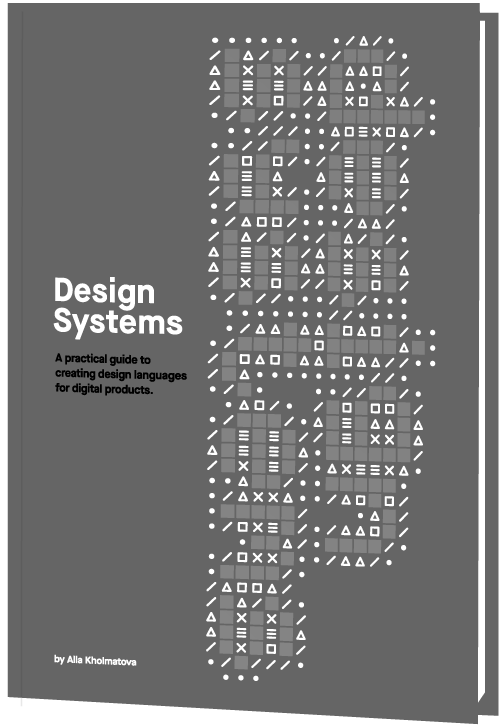
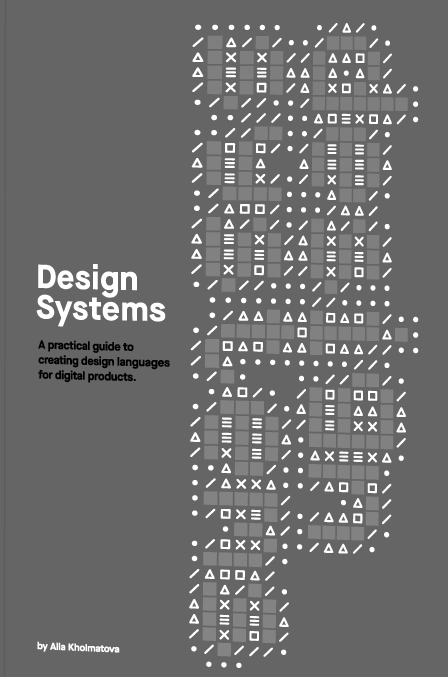
Added Design Systems Featured Smash Book Section

Changed region(s): [[0.0, 0.0, 1.0, 1.0], [0.0625, 0.3722, 0.375, 0.5894]]

diff --git a/index.html b/index.html
@@ -402,7 +402,7 @@
         >
       </section>
 
-      <section class="flex-full align-center black-text more-book">
+      <section class="more-book flex-full align-center black-text">
         <time class="block-element">March 2020 • Shipping now</time>
         <a href="#">Ethical Design Handbook:</a>
         <h1>Leaving Dark Patterns Behind.</h1>
@@ -563,6 +563,25 @@
       <section class="twiiter-links flex-full align-center separator">
         <a href="#" class="black-text">More Links on Twitter </a>
       </section>
+      <container class="design-systems">
+        <div>
+          <h4>FEATURED SMASHING BOOK</h4>
+          <a href="#"><h2>Design Systems</h2></a>
+          <p>
+            Meet <strong>Design Systems</strong>, a recent Smashing book in
+            which Alla Kholmatova explores how to set up an
+            <strong>effective design system</strong> to create great digital
+            products. With common traps, gotchas and lessons learned.
+          </p>
+          <button>
+            Table of Contents<i class="fas fa-long-arrow-alt-right"></i>
+          </button>
+        </div>
+        <img
+          src="./images/design-systems-hardcover-book.png"
+          alt="design-systems-book"
+        />
+      </container>
     </main>
   </body>
 </html>

diff --git a/style.css b/style.css
@@ -374,3 +374,48 @@ article.community-article a {
 article.community-article div {
   overflow: hidden;
 }
+
+/* Deisng Systems (Featured Smash Book) */
+
+.design-systems {
+  display: flex;
+  height: 500px;
+  padding: 55px 77px;
+  background: rgb(102, 102, 102);
+}
+
+.design-systems img {
+  width: 300px;
+}
+
+.design-systems div {
+  display: flex;
+  flex-direction: column;
+}
+
+.design-systems div h4 {
+  font-size: 17px;
+}
+
+.design-systems div h2 {
+  font-size: 47px;
+  text-decoration: none;
+  color: white;
+  padding-top: 20px;
+}
+
+.design-systems div p {
+  font-size: 22px;
+  margin: 30px 0;
+}
+
+.design-systems div button {
+  font-size: 27px;
+  margin-top: 30px;
+  padding: 20px;
+  width: 300px;
+}
+
+.design-systems div button svg {
+  padding-left: 10px;
+}
